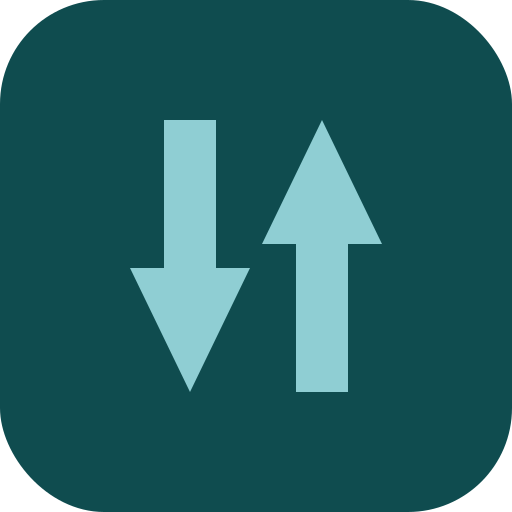
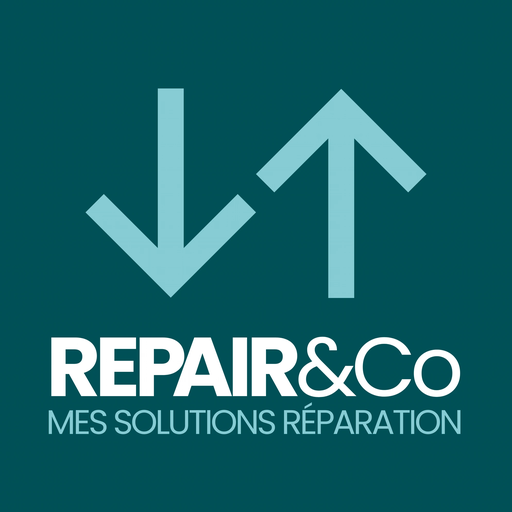
auto-commit for b86df4da-bf50-499f-ac41-ebdf3a2df445

diff --git a/frontend/src/lib/structuredData.js b/frontend/src/lib/structuredData.js
@@ -25,7 +25,7 @@ export const organizationSchema = () => ({
   name: 'Repair & Co',
   legalName: 'VDMI REPAIR&CO GROUPE',
   url: SITE_URL,
-  logo: `${SITE_URL}/icon-512.png`,
+  logo: `${SITE_URL}/logo.png`,
   email: 'contact@repair-and-co.fr',
   telephone: '+33467716769',
   sameAs: [
